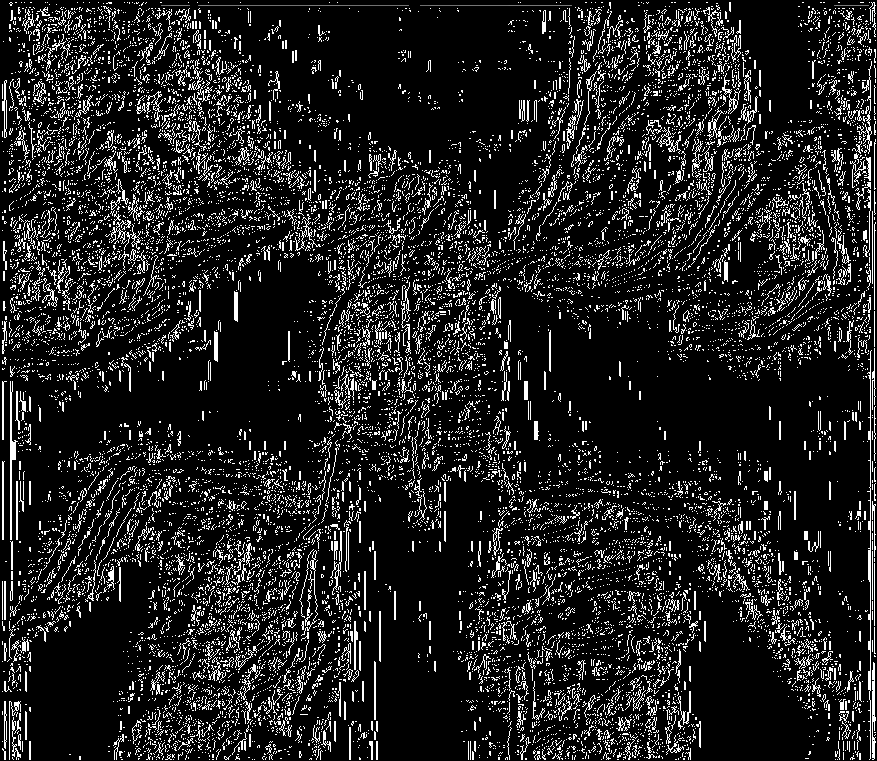
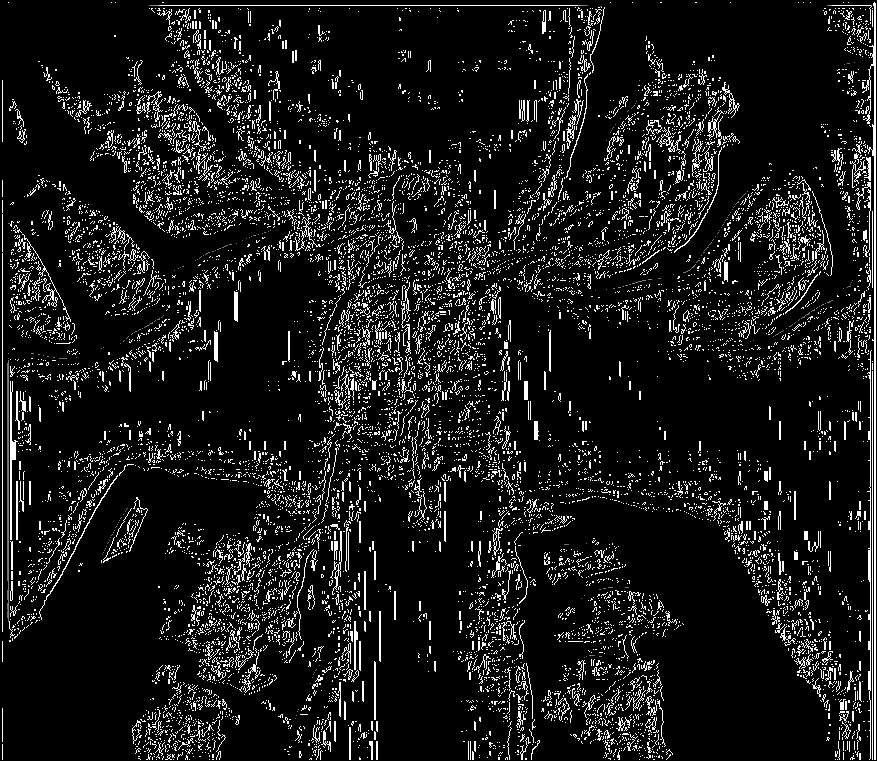
+ preparation and improvements

diff --git a/work/main.c b/work/main.c
@@ -34,6 +34,13 @@ int main() {
         k = k + 1;
     }
 
+    for (i = 2; i < ih-1; i++) {
+        for (j = 2; j < iw-1; j++) {
+            if (MyImage[iw*i+j] < 60) MyImage[iw*i+j] = 0;
+            if (MyImage[iw*i+j] > 190) MyImage[iw*i+j] = 255;
+        }
+    }
+
     //Roberts
     unsigned char x, y, s;
     for (i = 2; i < ih - 1; i++) {
